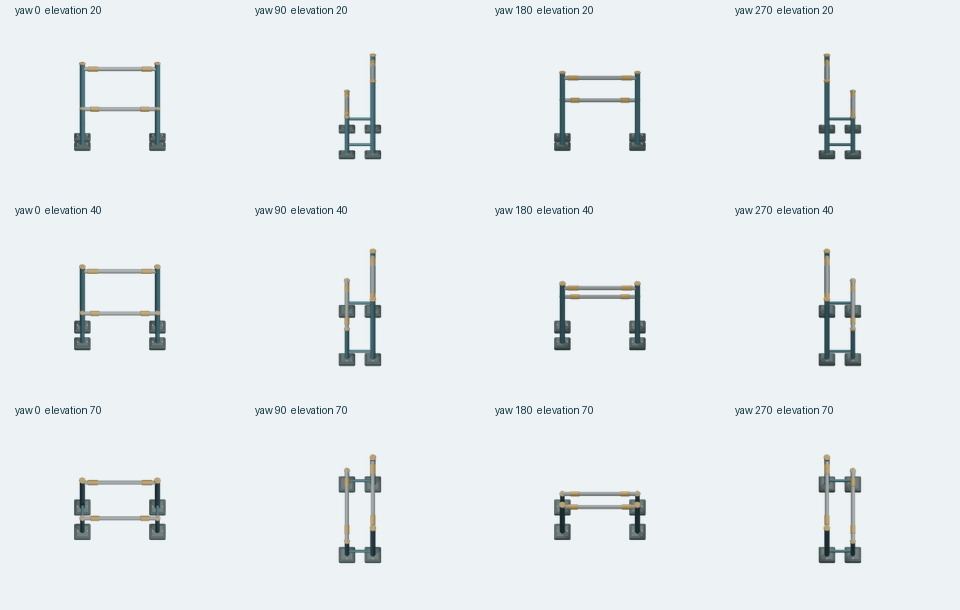
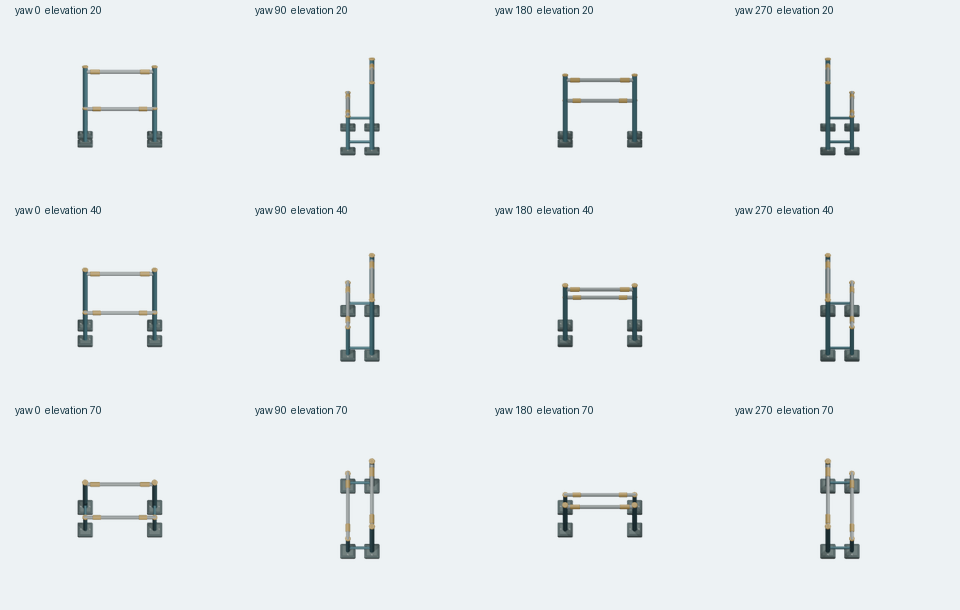
art: make Yard station ortho pixels exact to tile scale

diff --git a/tests/unit/oblique-yard-exercise-art.test.ts b/tests/unit/oblique-yard-exercise-art.test.ts
@@ -16,7 +16,14 @@ describe('authored Yard exercise station catalog', () => {
     expect(catalog.source).toBe('assets/source/blender/furniture.yard.exercise-station.blend');
     expect(catalog.sourceSha256).toBe(sha256(readFileSync(new URL(catalog.source, root))));
     expect(catalog.resolutionPx).toEqual([256, 256]);
-    expect(catalog.nominalPixelsPerTile).toBe(128);
+    expect(catalog.nominalPixelsPerTile).toBe(64);
+    const exporter = readFileSync(new URL('tooling/blender/render-yard-exercise-station-oblique.py', root), 'utf8');
+    const cameraScale = /^ORTHO_SCALE_TILES = ([0-9.]+)$/m.exec(exporter);
+    expect(cameraScale).not.toBeNull();
+    // Orthographic camera scale is the world-tile span of the square frame.
+    // This detects a future camera or metadata change that visually shrinks
+    // the 2x1 object while leaving every image hash internally consistent.
+    expect(catalog.resolutionPx[0] / Number(cameraScale![1])).toBe(catalog.nominalPixelsPerTile);
     expect(catalog.pivotPx).toEqual([128, 128]);
     expect(catalog.cameraTargetTiles).toEqual([1, 0.5, 0.82]);
     expect(catalog.yawDegrees).toHaveLength(12);

diff --git a/tooling/blender/render-yard-exercise-station-oblique.py b/tooling/blender/render-yard-exercise-station-oblique.py
@@ -22,6 +22,11 @@ OUTPUT = ROOT / "public/assets/environment/oblique"
 PREVIEW = ROOT / "assets/intermediate/yard-exercise-preview"
 MANIFEST = ROOT / "public/game-content/oblique-furniture.yard-exercise-station.v1.json"
 ASSET_ID = "furniture.yard.exercise-station"
+RESOLUTION_PX = 256
+ORTHO_SCALE_TILES = 4.0
+NOMINAL_PIXELS_PER_TILE = RESOLUTION_PX / ORTHO_SCALE_TILES
+if not NOMINAL_PIXELS_PER_TILE.is_integer():
+    raise ValueError("The authored camera must render an integral number of pixels per tile")
 YAW = tuple(range(0, 360, 30))
 ELEVATION = tuple(range(20, 80, 10))
 TARGET = Vector((1.0, 0.5, 0.82))
@@ -110,8 +115,8 @@ def configure() -> tuple[bpy.types.Scene, bpy.types.Object]:
     bpy.ops.wm.open_mainfile(filepath=str(SOURCE))
     scene = bpy.context.scene
     scene.render.engine = "BLENDER_WORKBENCH"
-    scene.render.resolution_x = 256
-    scene.render.resolution_y = 256
+    scene.render.resolution_x = RESOLUTION_PX
+    scene.render.resolution_y = RESOLUTION_PX
     scene.render.resolution_percentage = 100
     pipeline_common.apply_deterministic_render_settings(scene)
     scene.display.shading.light = "STUDIO"
@@ -122,7 +127,7 @@ def configure() -> tuple[bpy.types.Scene, bpy.types.Object]:
     camera = bpy.data.objects.new("YardModuleCamera", camera_data)
     bpy.context.collection.objects.link(camera)
     camera_data.type = "ORTHO"
-    camera_data.ortho_scale = 3.7
+    camera_data.ortho_scale = ORTHO_SCALE_TILES
     scene.camera = camera
     return scene, camera
 
@@ -171,8 +176,8 @@ def main() -> None:
         "assetId": ASSET_ID,
         "source": "assets/source/blender/furniture.yard.exercise-station.blend",
         "sourceSha256": hashlib.sha256(SOURCE.read_bytes()).hexdigest(),
-        "resolutionPx": [256, 256],
-        "nominalPixelsPerTile": 128,
+        "resolutionPx": [RESOLUTION_PX, RESOLUTION_PX],
+        "nominalPixelsPerTile": int(NOMINAL_PIXELS_PER_TILE),
         "pivotPx": [128, 128],
         "cameraTargetTiles": [1.0, 0.5, 0.82],
         "projection": "orthographic",

diff --git a/docs/research/2026-10-02-yard-exercise-station/README.md b/docs/research/2026-10-02-yard-exercise-station/README.md
@@ -4,8 +4,10 @@ The existing `yard-basic` room plan is an 8×8 outdoor square with `objects: []`
 
 The [twelve-pose contact sheet](poses.png) displays the actual Blender model at four yaws and three camera elevations. It has a tall pull-up bridge and a low parallel grip on four rubber anchored plates. The materials use the existing muted steel/rubber/warm accent palette. Evaluated Blender mesh bounds, including modifiers, are **X [0.05000003, 1.94999993], Y [0.05999999, 0.94], Z [0, 1.6975]** in minimum-corner tile coordinates: the visible geometry fits the full 2×1 occupied-square footprint. Model identity: `furniture.yard.exercise-station`; authored source: `assets/source/blender/furniture.yard.exercise-station.blend`.
 
-`tooling/blender/create-yard-exercise-station.py` rebuilds the source in Blender 5.2.1. `tooling/blender/render-yard-exercise-station-oblique.py` exports 12 yaw × 6 elevation poses (72) at 256×256, nominal 128 px/tile, centered pivot `[128,128]`, camera target `[1,0.5,0.82]`. Source render camera and catalog target are the **same** `(1,0.5,0.82)` point. The runtime painter anchors the image at `(tileX+1,tileY+0.5,0.82)` and the sprite encodes each source vertex relative to that camera target, so its visible ground projection is `(tileX+sourceX,tileY+sourceY,sourceZ)`; there is no second offset. The renderer checks every transparent border, removes volatile Blender PNG time metadata and writes SHA-named PNGs plus `public/game-content/oblique-furniture.yard-exercise-station.v1.json`. The catalog test checks the source hash and all 72 frame hashes. Full runtime placement, collision, save/load and Full HD visual behavior still depend on the content definition and consumer mapping; this sheet is a source-art check, not gameplay acceptance.
+`tooling/blender/create-yard-exercise-station.py` rebuilds the source in Blender 5.2.1. `tooling/blender/render-yard-exercise-station-oblique.py` exports 12 yaw × 6 elevation poses (72) at 256×256, nominal **64** px/tile, centered pivot `[128,128]`, camera target `[1,0.5,0.82]`. Source render camera and catalog target are the **same** `(1,0.5,0.82)` point. The runtime painter anchors the image at `(tileX+1,tileY+0.5,0.82)` and the sprite encodes each source vertex relative to that camera target, so its visible ground projection is `(tileX+sourceX,tileY+sourceY,sourceZ)`; there is no second offset. The renderer checks every transparent border, removes volatile Blender PNG time metadata and writes SHA-named PNGs plus `public/game-content/oblique-furniture.yard-exercise-station.v1.json`. The orthographic span is exactly **4 world tiles** across the 256 px render, so `256 / 4 = 64` rendered pixels per tile; the catalog test reads the exporter camera scale and checks that equation against its `nominalPixelsPerTile`. At yaw 0°/elevation 40°, the actual alpha width is 124 px across a 2-tile source, close to the expected 128 px footprint. `paintAsset` scales by `TILE_SIZE_PX / nominalPixelsPerTile = 64 / 64`, retaining that size. The catalog test also checks the source hash and all 72 frame hashes. Full runtime placement, collision, save/load and Full HD visual behavior still depend on the content definition and consumer mapping; this sheet is a source-art check, not gameplay acceptance.
 
 Verification: all 72 Blender renders passed the border gate; the twelve inspected contact-sheet poses retain the same anchored feet, with alpha bounds fully inside the 256×256 image at yaw 0/90/180/270 and elevation 20/40/70. `python tooling/research/yard-exercise-contact-sheet.py` rebuilds the sheet from the 12 SHA-checked files. The focused catalog and research-index tests passed 6/6. Replacing exactly the first frame's stored SHA with zeroes made the catalog test fail 1/1 at that PNG; restoring the original manifest made it pass 1/1. Initially the raw Blender PNG bytes differed between identical preview runs because Blender wrote `Date` and `RenderTime` text chunks, although every RGBA pixel matched. Normalizing the PNG chunks made two independent preview rerenders byte-identical and two full 72-pose manifest rerenders SHA-identical. No browser test has been run because the asset is not yet placed by production content.
+
[1 lines of base64/hex data omitted]
 
 Proposed truthful labels for the future buildable content decision: **PL: „Stanowisko ćwiczeń”**, **EN: “Exercise station”**. Intended function is visual equipment for a Yard. No exercise, health or recreation effect is claimed until simulation implements one. The model is not added to player-facing catalog text by this draft.
